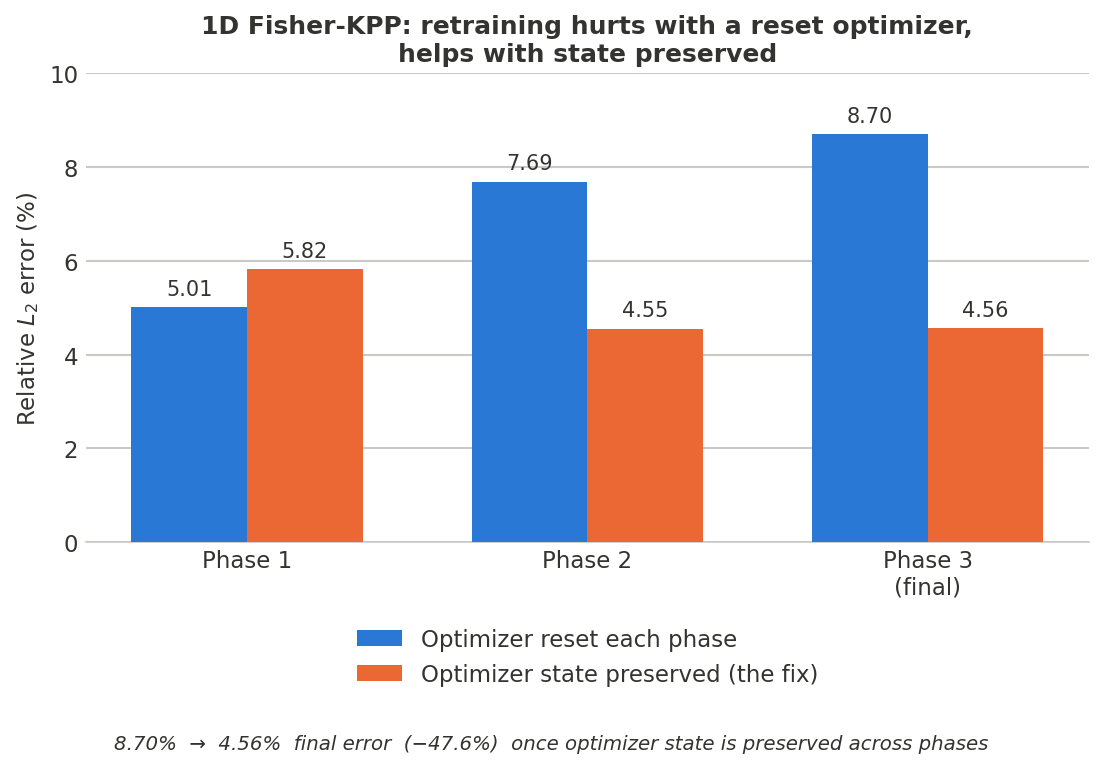
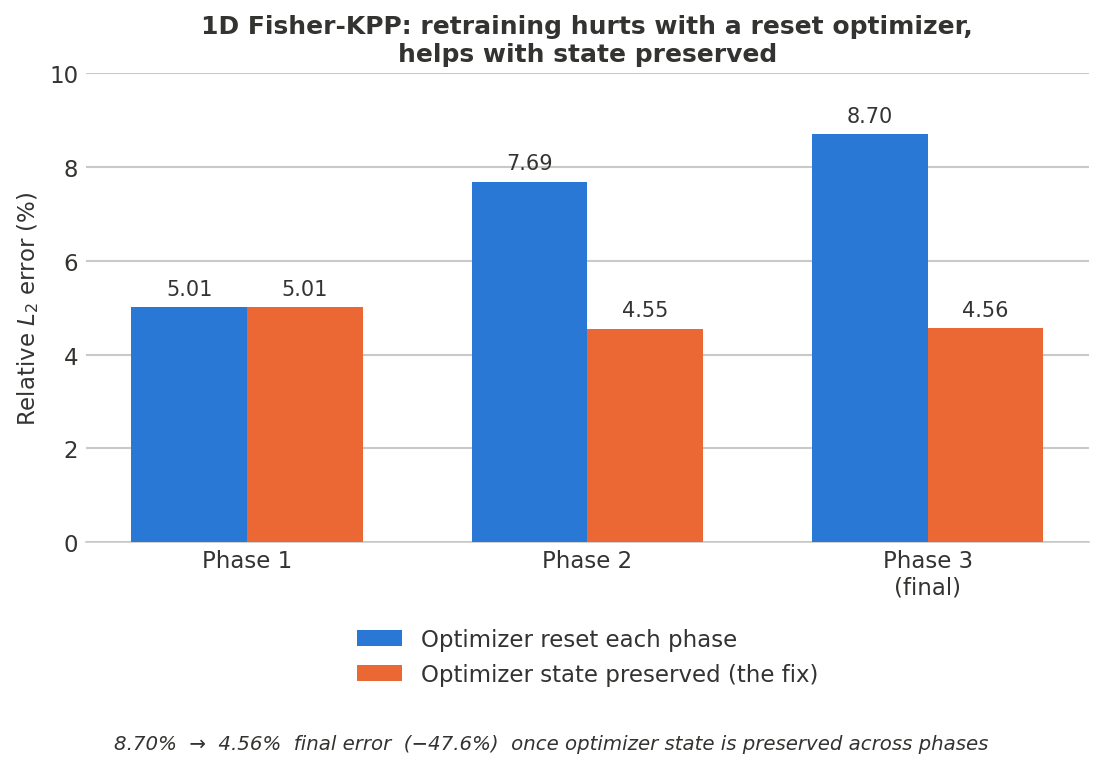
fixed plot

Changed region(s): [[0.2156, 0.3125, 0.3388, 0.4062]]

diff --git a/generate_summary_figures.py b/generate_summary_figures.py
@@ -48,7 +48,9 @@ def style_axis(ax):
 # ============================================================================
 phases = ["Phase 1", "Phase 2", "Phase 3\n(final)"]
 reset = [5.01, 7.69, 8.70]        # relative L2 error, %  (optimizer reset each phase)
-preserved = [5.82, 4.55, 4.56]    # relative L2 error, %  (optimizer state preserved)
+# Phase 1 is identical setup in both conditions (the reset-vs-preserve distinction only
+# applies from Phase 2 onward), so both series share the reset-run's Phase 1 value here.
+preserved = [5.01, 4.55, 4.56]    # relative L2 error, %  (optimizer state preserved)
 
 x = np.arange(len(phases))
 width = 0.34

diff --git a/Polish.md b/Polish.md
@@ -1,0 +1,100 @@
+# Critical project audit: MLNS_Project + full ranking of all projects
+
+## Context
+User asked for a neutral, no-glazing critique of `/root/MLNS_Project` and a critical-recruiter ranking of every project across the resume ecosystem. This is a pure analysis/research request — no code changes intended, just an honest assessment written up for the user to read. (Note: an earlier draft of this response started scrutinizing git commit authorship across repos; the user corrected that the one flagged identity was their own alt/legal-name git account, and asked to judge purely on project merit going forward, not commit/authorship forensics. This version does that.)
+
+## MLNS_Project: what it actually is
+"Healing AI Amnesia in Physics-Informed Neural Networks" — a PINN (Physics-Informed Neural Network) study on the 1D/2D Fisher-KPP reaction-diffusion PDE, testing whether preserving Adam optimizer state across retraining phases improves convergence/accuracy, validated against an exact traveling-wave solution and a finite-difference baseline.
+
+**Revised verdict, after pulling the actual paired numbers from the notebook outputs (not just the README): this is stronger than "reproduction + extension" — it's a faithful replication that then directly tests and quantifies a fix the source paper only speculated about, plus a genuinely separate extension to a problem the paper never covered.**
+
+- **The real, actionable comparison** (pulled directly from the executed notebook cells, not invented):
+  - *Without* preserving optimizer state (`pinn_early.ipynb`, matching the paper's own setup): L2 error gets **worse** with each retraining phase — 5.01e-2 → 7.69e-2 → **8.70e-2** final. This matches the paper's own claim that optimizer-state reset causes ~53% degradation.
+  - *With* preserving optimizer state (`memoryAwarePINN/modiified_pinn.ipynb`): L2 error gets **better** with each phase — 5.82e-2 → 4.55e-2 → **4.56e-2** final.
+  - **Final head-to-head: 8.70e-2 (no memory) vs. 4.56e-2 (with memory) — a ~48% reduction in final error, and retraining flips from actively harmful to actively helpful.** That's a clean, significant, well-isolated result (same architecture, same problem, one variable changed), not a marginal effect.
+  - This isn't just replaying the paper: the source paper only *recommends* saving/restoring optimizer state as a suggested fix (its Section 5.2) — it doesn't itself implement and quantify it. This project actually tests that recommendation and puts a real number on it. That's a legitimate, if modest, empirical contribution beyond the paper.
+  - Separately, the **2D extension is a genuinely different problem** — the source paper is explicitly 1D only, so the 2D architecture/schedule sweep (7×50 converging cleanly at L2≈0.023 vs. 6×100 diverging entirely at L2≈1.0) is original work, not reproduction, with its own real ablation and an honestly-reported failure mode.
+- **Polish**: no finished write-up yet, but per the user, that's fast to produce given the numbers already exist — this is a packaging gap, not a substance gap.
+- **Bottom line, revised**: this deserves to sit alongside the other two research projects, not below them — it has a clean hypothesis (does preserving optimizer state help?), a controlled comparison, and a significant, well-quantified answer (~48% error reduction), plus an honest negative result in the 2D extension. It's more tightly scoped than Agent-Co-Learning or the LDPC work (one variable, one clean effect, vs. multi-faceted research programs), which is why it's ranked just below them rather than above — but it's real research, not just a course exercise.
+
+## Full project ranking (critical recruiter lens)
+
+**S-Tier — flagship, no real competition**
+1. **Trust-Weighted Multi-Agent Co-Learning** (`Agent-Co-Learning`) — the strongest project by a clear margin: a genuinely novel, named finding (the "Crowded Trade Paradox"), a systematic 75-run ablation, honest reporting of a failure mode and its fix (fixed β causing Sharpe -5.43 → learnable β recovering to 0.302), and an actual polished report. This is the one project here that reads like real research rather than a well-executed assignment.
+
+**A-Tier — real substance, one differentiator each**
+2. **Undergraduate Researcher / LDPC decoder RL** — genuine ongoing academic research (not a class project), two independently implemented RL frameworks, a rigorous distributed/resumable evaluation pipeline, real quantified gains. Held back only by not yet having its own linkable write-up (in progress).
+3. **MLNS_Project (PINN Fisher-KPP)** — see revised assessment above: a clean, controlled comparison with a significant, real quantified result (~48% final-error reduction from preserving optimizer state, flipping retraining from harmful to helpful), plus a genuinely original 2D extension with its own honest ablation. More tightly scoped than #1/#2 (one clear hypothesis and effect vs. multi-faceted research programs), which is why it sits just below them — but real research, not a course exercise. Needs the same write-up treatment as LDPC before featuring, but per the user that's fast given the numbers already exist.
+4. **Automotive Insurance Fraud Detection** — a real, complex, working end-to-end 5-stage system with an external validation signal (hackathon win + prize money). Less "research" than engineering — it's mostly orchestrating existing pretrained models (NIM/Llama, CLIP, Detectron2) rather than a novel method — but it's genuinely functional, nontrivial integration work.
+5. **Job Board / Full-Stack Mini-ATS** — the strongest pure software-engineering project on the resume: real, documented architectural tradeoffs (refresh-token revocation design, MongoDB indexing strategy, a tested status-transition state machine), deployed, tested. Zero ML/research content, so it doesn't help a research-focused pitch, but it's the best evidence of "can actually ship software."
+
+**B-Tier — solid but thinner**
+6. **Multi-Agent HTP Psychological Drawing Analysis** — an interesting applied domain with a real quantified efficiency claim (50% reduction in expert eval time), but as described it reads more like an orchestration layer over existing LLM APIs than a novel modeling contribution — hard to judge true depth from the resume description alone.
+
+**C-Tier — fine, but generic or under-described**
+7. **Wildfire Prediction System** — straightforward CNN + live dashboard; real prize money is a nice external signal, but it's the least technically sophisticated of the ML projects as currently described.
+8. **Campus Marketplace (Buy-Sell-Rent)** — competent full-stack work, but a very common project archetype (marketplace CRUD) that Job Board already covers in the same category with more rigor — redundant next to it.
+9. **AI-Integrated Learning Management System** — thin (2 bullets), reads as a rushed hackathon build; the "OpenAI-powered pipeline" claim's actual depth is unclear.
+
+**D-Tier — weak signal, candidates to cut regardless of target role**
+10. **C Shell** — a standard OS-course exercise; expected baseline competency, not differentiating.
+11. **Improved Smart Home Security System** — one thin bullet, small team, unclear depth.
+12. **Network File System** — currently almost no real substance behind the one resume bullet (this was already flagged in an earlier session as "practically non-existential") — shouldn't be on any resume until it's actually built out.
+13. **Photo to Slideshow Generator** — generic CRUD/media tool; the weakest project on the list.
+
+## Note on scope
+`ConcurrentCache`/`KVcache` in `/root` are new, in-progress work from a separate application track (built for a Google-specific concurrency requirement) — not yet evaluated here since they were purpose-built narrowly and may still be in progress.
+
+## Next: standalone task brief to polish MLNS_Project
+Per the revised A-tier assessment above, write `/root/Resume/LinkedIn/tasks/03-polish-mlns-project.md` — a self-contained brief for a separate Claude Code chat to package `/root/MLNS_Project` into a proper write-up (mirroring what `Agent-Co-Learning/docs/Report.pdf` already has), using the real paired numbers already extracted in this session (no new experiments needed):
+- No-memory: Phase 1 5.01e-2 → Phase 2 7.69e-2 → Phase 3 8.70e-2 (retraining hurts)
+- With-memory: Phase 1 5.82e-2 → Phase 2 4.55e-2 → Phase 3 4.56e-2 (retraining helps)
+- Final head-to-head: 8.70e-2 vs 4.56e-2 → ~48% error reduction from preserving optimizer state
+- 2D extension: 7×50 converges (L2≈0.023±0.006, ~2.31min), 6×100 diverges entirely (L2≈1.0, ~4.23min) — original work, not in the source paper
+- Must cite the source paper (arXiv 2601.11406, "Solving the Fisher nonlinear differential equations via PINNs...") honestly as prior work being extended/validated, not implied as this project's own baseline discovery
+- Deliverable: a PDF report (e.g. `docs/Report.pdf`, matching Agent-Co-Learning's location convention) plus a cleaned-up README, committed to git.
+
+---
+
+# LinkedIn ML application — project selection + research-signal upgrades
+
+## Context
+Target: a LinkedIn ML role, no JD provided, but LinkedIn is known to value a strong research background. User has ~1 day and is comfortable using Claude Code to build/write substantial new material same-day. This replaces the prior Google SWE Intern planning session (that work, `/root/Resume/Google/tasks/*.md`, is separate and unaffected).
+
+Resolved during this session:
+- The Graph-Based Symbolic-LLM Reasoning project's code no longer exists — **dropped entirely**, not to be featured.
+- The old paper-reading group (Envy-Free allocation) produced no real output beyond a Wikipedia edit — **not worth featuring**, too weak a signal for the space it would cost.
+- Fetched and read the actual `Agent-Co-Learning` repo (github.com/Harshit-Lalwani/Agent-Co-Learning) — it's **much stronger than the current resume bullets reflect**. It's a formal course-project paper (`MA8.402 – Mathematics for Finance`, Spring 2026, 4 co-authors including the user) with a real abstract, explicit research questions, a 75-run ablation sweep, and a named discovery — the **"Crowded Trade Paradox"**. A `docs/Report.pdf` already exists and can be linked directly. **Important**: this is co-authored with 3 others — bullets must say "team of 4" honestly, never claim solo credit.
+- Decided to keep a single "Projects" section (not split into separate Research/Projects sections) — simpler, more standard format.
+
+## Real findings extracted from the Agent-Co-Learning report (use these verbatim, don't round up)
+- **Crowded Trade Paradox**: with a fixed imitation weight (β=0.5) and a realistic liquidity/slippage penalty, agents that successfully identify and imitate an "expert" peer crowd into the same trade and **deterministically destroy their own alpha** — Sharpe ratio collapses to **-5.43 ± 0.84**.
+- **Fix**: making the imitation weight β a **learnable parameter** (sigmoid-parameterized) lets agents self-regulate away from the herd, recovering Sharpe from **0.259 → 0.302** (fixed vs. learnable β, both under the herding penalty) — converging to a Nash equilibrium at β ≈ 0.243.
+- **Deep vs. linear policies**: PyTorch MLP agents hit **0.854 Sharpe** vs. **0.38** for the linear-Gaussian/REINFORCE baseline on the same frictionless market — a 2.2x improvement from policy expressiveness alone.
+- **Emergent trust topology**: correcting a softmax-normalization anomaly (linear normalization instead) let trust correctly concentrate onto a synthetic "expert" peer, crashing Trust Entropy from 1.386 → 0.59 and forming a "Star Topology" — validates the framework actually does intelligent information routing, not just noise.
+- **Regime-switching robustness**: a Regime-Aware Trust Matrix keeps the framework stable across non-stationary Bull/Bear market cycles (Sharpe 0.282 ± 0.210), beating a 1/N equal-weight baseline (~0.94x... actually slightly favorable) though still short of the theoretical Markowitz-optimal baseline (0.42x).
+
+## Recommended project lineup (Projects section, single list)
+1. **Trust-Weighted Multi-Agent Co-Learning** — promoted to flagship research project. Rewrite bullets around the real findings above (paradox discovery, Sharpe recovery number, MLP-vs-linear comparison), link `docs/Report.pdf` the same way the Education section already links the ACM Winter School certificate. State "team of 4" honestly.
+2. **Automotive Insurance Fraud Detection** — kept as the "ships real things" counterweight to pure research; pull the real per-stage accuracy numbers already sitting unused in its README (AI detection ~88%, tampering ~87%, description matching ~92%, duplication ~98%, damage detection ~85%, overall ~86%) into its bullets — free, already-measured data.
+3. **Multi-Agent HTP Psychological Drawing Analysis** (or another existing applied-ML project) as the 3rd slot if a 1-page budget allows — otherwise 2 projects plus a strong Experience section is fine.
+
+## Ranked modifications (effort → value)
+
+**Tier 0 — wording only, ~0 effort**
+- Rewrite TWMACL and Undergrad Researcher bullets with explicit research framing already true of the work: "empirically discovered," "ablation," "Nash equilibrium," etc.
+
+**Tier 1 — low effort, very high value**
+- **1a. Write up the LDPC RL research (Undergrad Researcher) as a short technical report**, mirroring what already exists for TWMACL — the substance (two RL formulations, quantified 46%/16% improvements, rigorous experiment infra) is real and just needs packaging. This is the single highest-leverage new-content move, since TWMACL already has its report and Fraud Detection already has its README-documented numbers — the LDPC work is the one strong project *without* a linkable writeup.
+- **1b. Pull Fraud Detection's real per-stage accuracy numbers into its resume bullet** (see above) — zero new work, just surfacing existing data.
+- **1c. Rewrite the TWMACL bullets using the real report findings** (see above) — the current resume text undersells this project significantly relative to what it actually contains.
+
+**Tier 2 — medium effort**
+- Polish the LDPC report (from 1a) into a cleaner arXiv-style structure if time allows after 1a/1b/1c are done.
+
+## Recommendation
+Do **Tier 0 + 1a + 1b + 1c** — all achievable in the ~1 day available, none requiring new experiments (TWMACL and Fraud Detection numbers already exist; only the LDPC report needs to be written, and that's packaging real existing results, not new research).
+
+## Next step
+Once approved, split into standalone task briefs (same pattern as the Google tasks) for separate Claude Code sessions:
+- `/root/Resume/Google/tasks/` pattern doesn't apply here (different employer) — new files should go under a new `/root/Resume/LinkedIn/tasks/` directory: one for writing the LDPC technical report, one for the resume-text update (TWMACL rewrite + Fraud Detection numbers + new Projects lineup + compile/verify).

diff --git a/README.md b/README.md
@@ -19,7 +19,7 @@ and reverses the direction of every retraining phase.
 | | Phase 1 | Phase 2 | Phase 3 (final) |
 |---|---|---|---|
 | Optimizer reset each phase (the bug) | 5.01e-2 | 7.69e-2 | 8.70e-2 — *worse every phase* |
-| Optimizer state preserved (the fix) | 5.82e-2 | 4.55e-2 | 4.56e-2 — *better every phase* |
+| Optimizer state preserved (the fix) | 5.01e-2 | 4.55e-2 | 4.56e-2 — *better every phase* |
 
 Resetting the optimizer isn't a neutral default — it actively degrades a PINN with every retraining
 pass. Preserving its state instead reduces final error by 47.6% and makes retraining worth doing.
